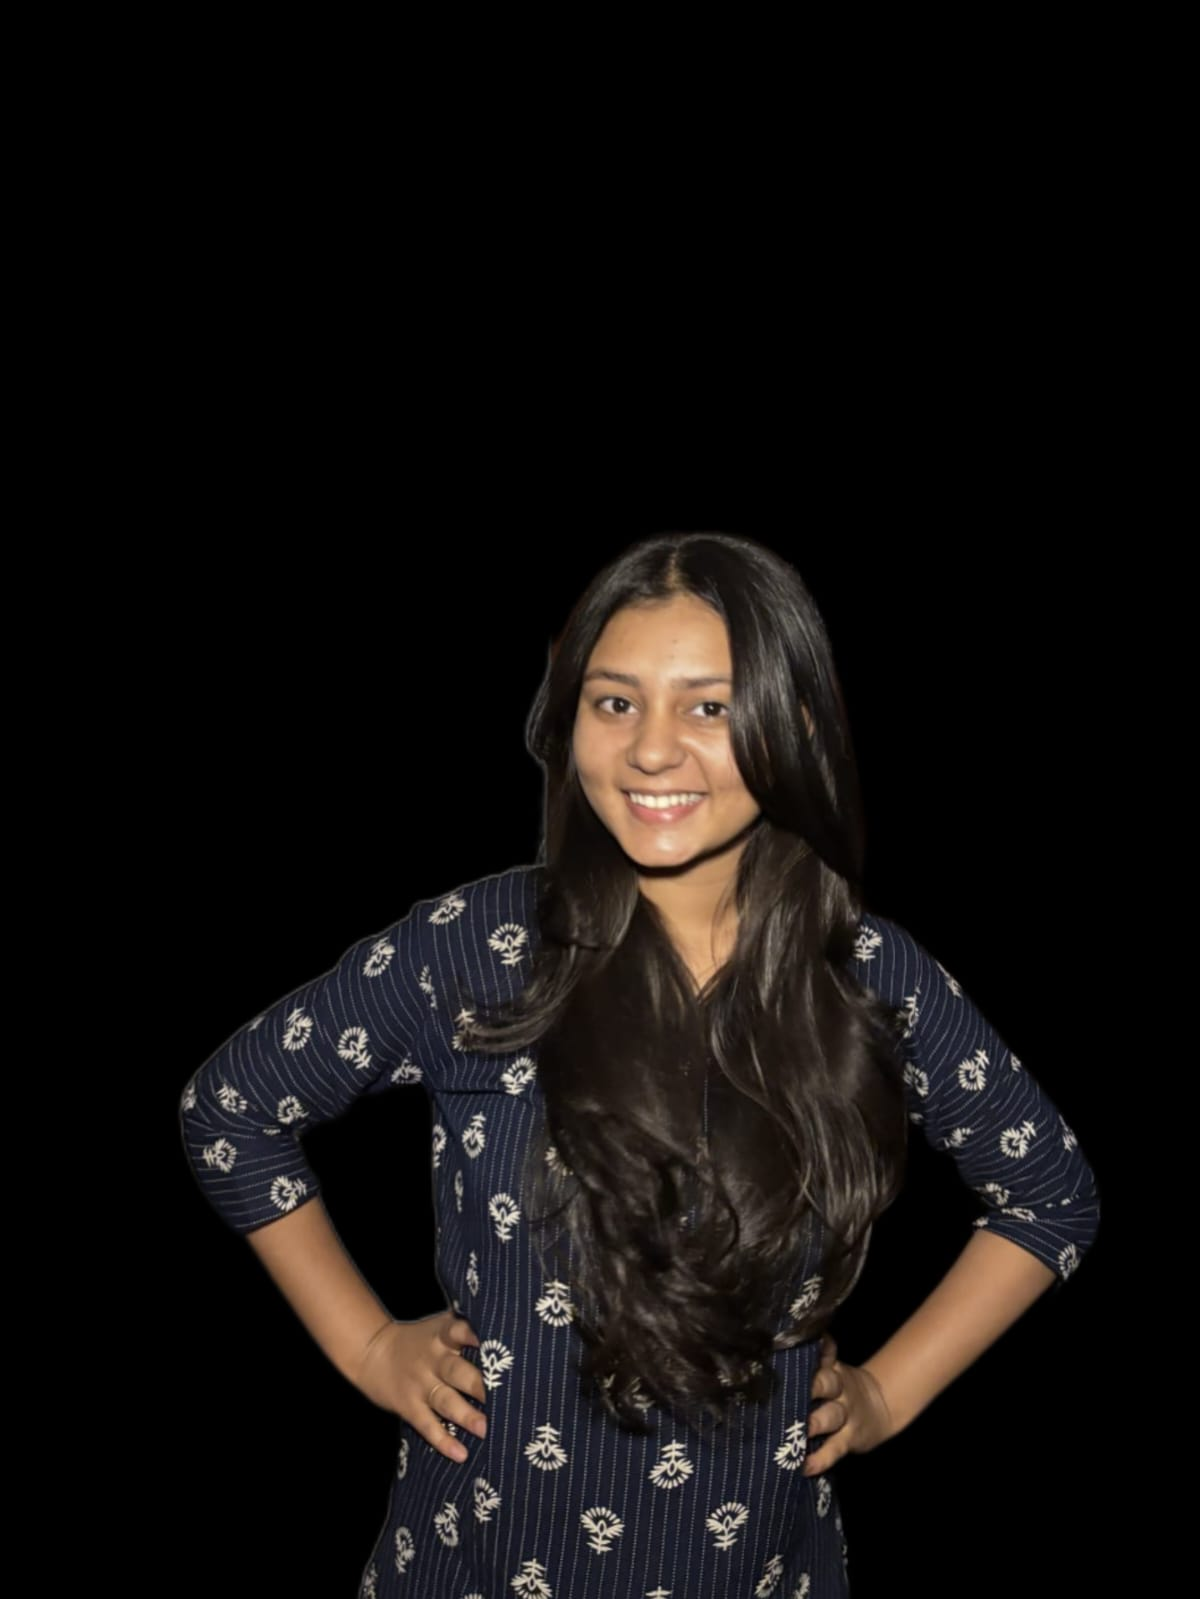
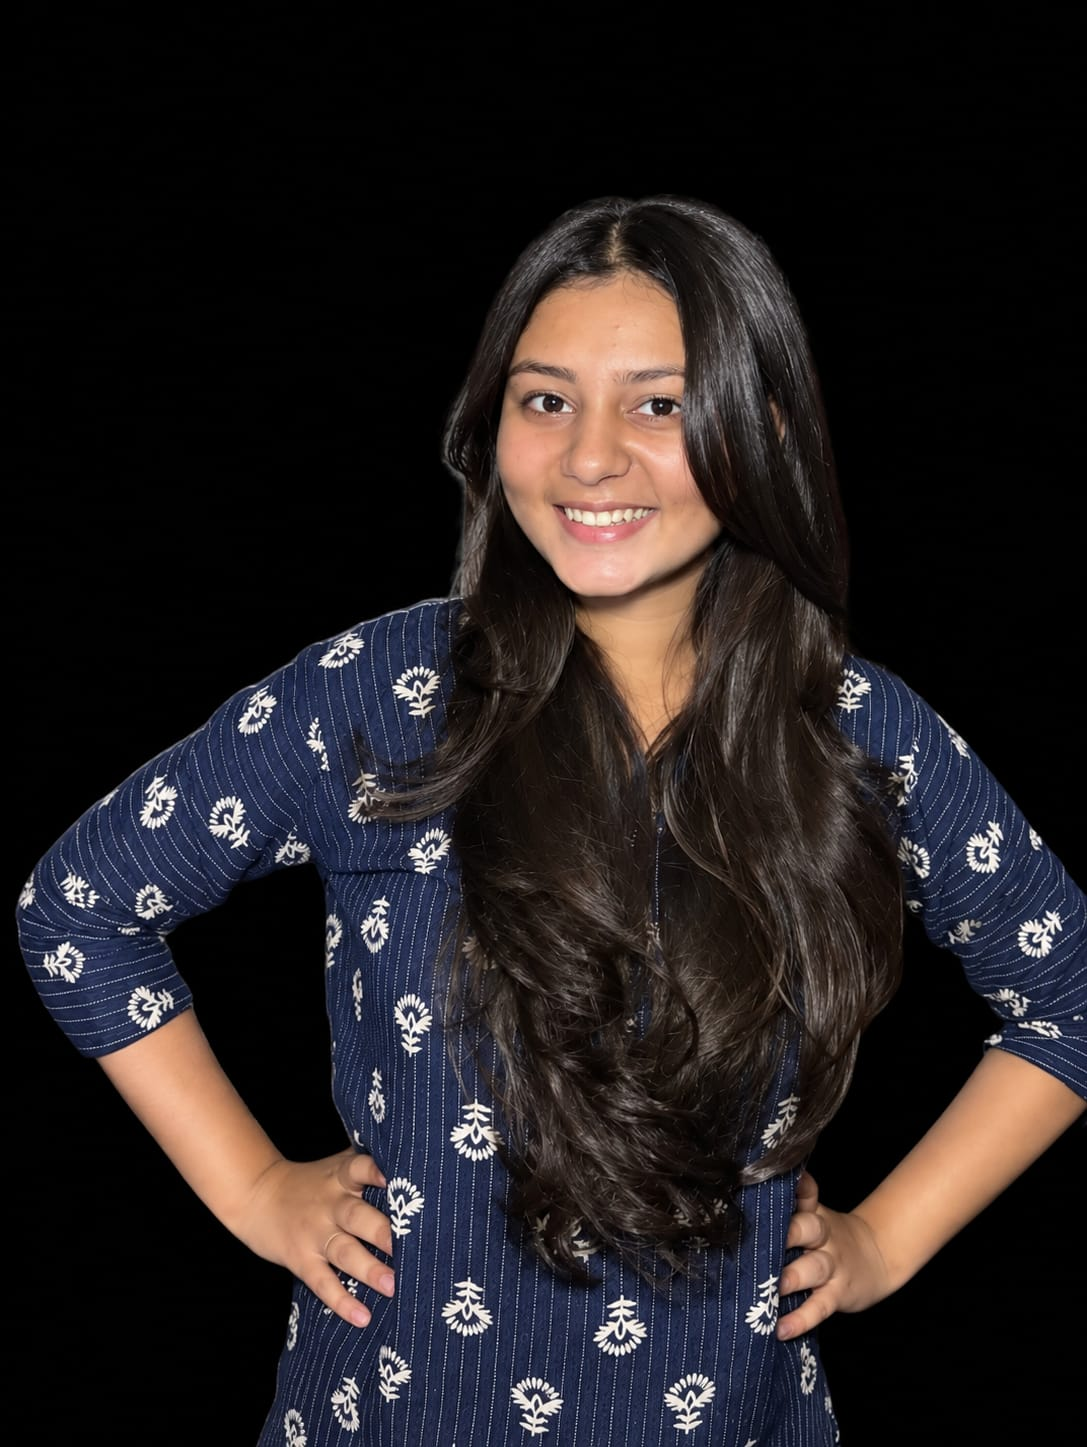
images added in members and JECSC page and aligned

diff --git a/src/data/jecSecurityCouncil.ts b/src/data/jecSecurityCouncil.ts
@@ -40,8 +40,8 @@ export const JEC_SECURITY_COUNCIL_MEMBERS: SecurityCouncilMember[] = [
     id: 1,
     name: "AKSHAT TIWARI",
 
-    image: "/alumni/2026-27, heads/akshat.jpeg",
-    imageScale: 1,
+    image: "/alumni/2026-27, heads/akshat.png",
+    imageScale: 1.2,
     objectPosition: "center 5%",
 
   },
@@ -49,7 +49,7 @@ export const JEC_SECURITY_COUNCIL_MEMBERS: SecurityCouncilMember[] = [
     id: 2,
     name: "CHITRANSH TIWARI",
 
-    image: "/alumni/2026-27, heads/chitransh.jpeg",
+    image: "/alumni/2026-27, heads/chitransh.png",
     imageScale: 1,
     objectPosition: "center 50%",
 
@@ -59,7 +59,7 @@ export const JEC_SECURITY_COUNCIL_MEMBERS: SecurityCouncilMember[] = [
     name: "MUSTKEEM ARSH",
 
     image: "/assets/presidents/mustkeem_arsh.jpg",
-    imageScale: 1,
+    imageScale: 0.9,
     objectPosition: "center 60%",
 
   },
@@ -68,7 +68,7 @@ export const JEC_SECURITY_COUNCIL_MEMBERS: SecurityCouncilMember[] = [
     name: "MOHAMMAD USAID",
 
     image: "/assets/presidents/mohammad_usaid.png",
-    imageScale: 2.2,
+    imageScale: 1.3,
     objectPosition: "center 40%",
 
   },
@@ -77,7 +77,7 @@ export const JEC_SECURITY_COUNCIL_MEMBERS: SecurityCouncilMember[] = [
     name: "PRANSHU MISHRA",
 
     image: "/assets/presidents/pranshu_mishra.jpg",
-    imageScale: 2.2,
+    imageScale: 1.3,
     objectPosition: "center 30%",
   },
 
@@ -86,7 +86,7 @@ export const JEC_SECURITY_COUNCIL_MEMBERS: SecurityCouncilMember[] = [
     name: "SAMVEG SHANDILYA",
 
     image: "/assets/presidents/samveg_shandilya.jpg",
-    imageScale: 1,
+    imageScale: 1.2,
     objectPosition: "center 5%",
   },
   {
@@ -94,7 +94,7 @@ export const JEC_SECURITY_COUNCIL_MEMBERS: SecurityCouncilMember[] = [
     name: "AYUSHMAN PARCHORIA",
 
     image: "/assets/presidents/ayushman_parchoria.jpg",
-    imageScale: 1,
+    imageScale: 1.2,
     objectPosition: "center 5%",
 
   },

diff --git a/src/components/IDCard.tsx b/src/components/IDCard.tsx
@@ -38,9 +38,11 @@ export default function IDCard({ member, href, onClick }: IDCardProps) {
         </p>
       </div>
 
-      <p className="font-mono text-[0.7rem] text-jlug-gray-2 mt-4 line-clamp-2">
-        {member.bio}
-      </p>
+      {member.bio && (
+        <p className="font-mono text-[0.7rem] text-jlug-gray-2 mt-4 line-clamp-2">
+          {member.bio}
+        </p>
+      )}
     </div>
   );
 

diff --git a/src/features/members/types.ts b/src/features/members/types.ts
@@ -13,7 +13,7 @@ export interface TeamMember {
   role: string;
   category?: FilterCategory | string;
   image: string;
-  bio: string;
+  bio?: string;
   socials?: MemberSocials;
   objectPosition?: string;
   imageScale?: number;
